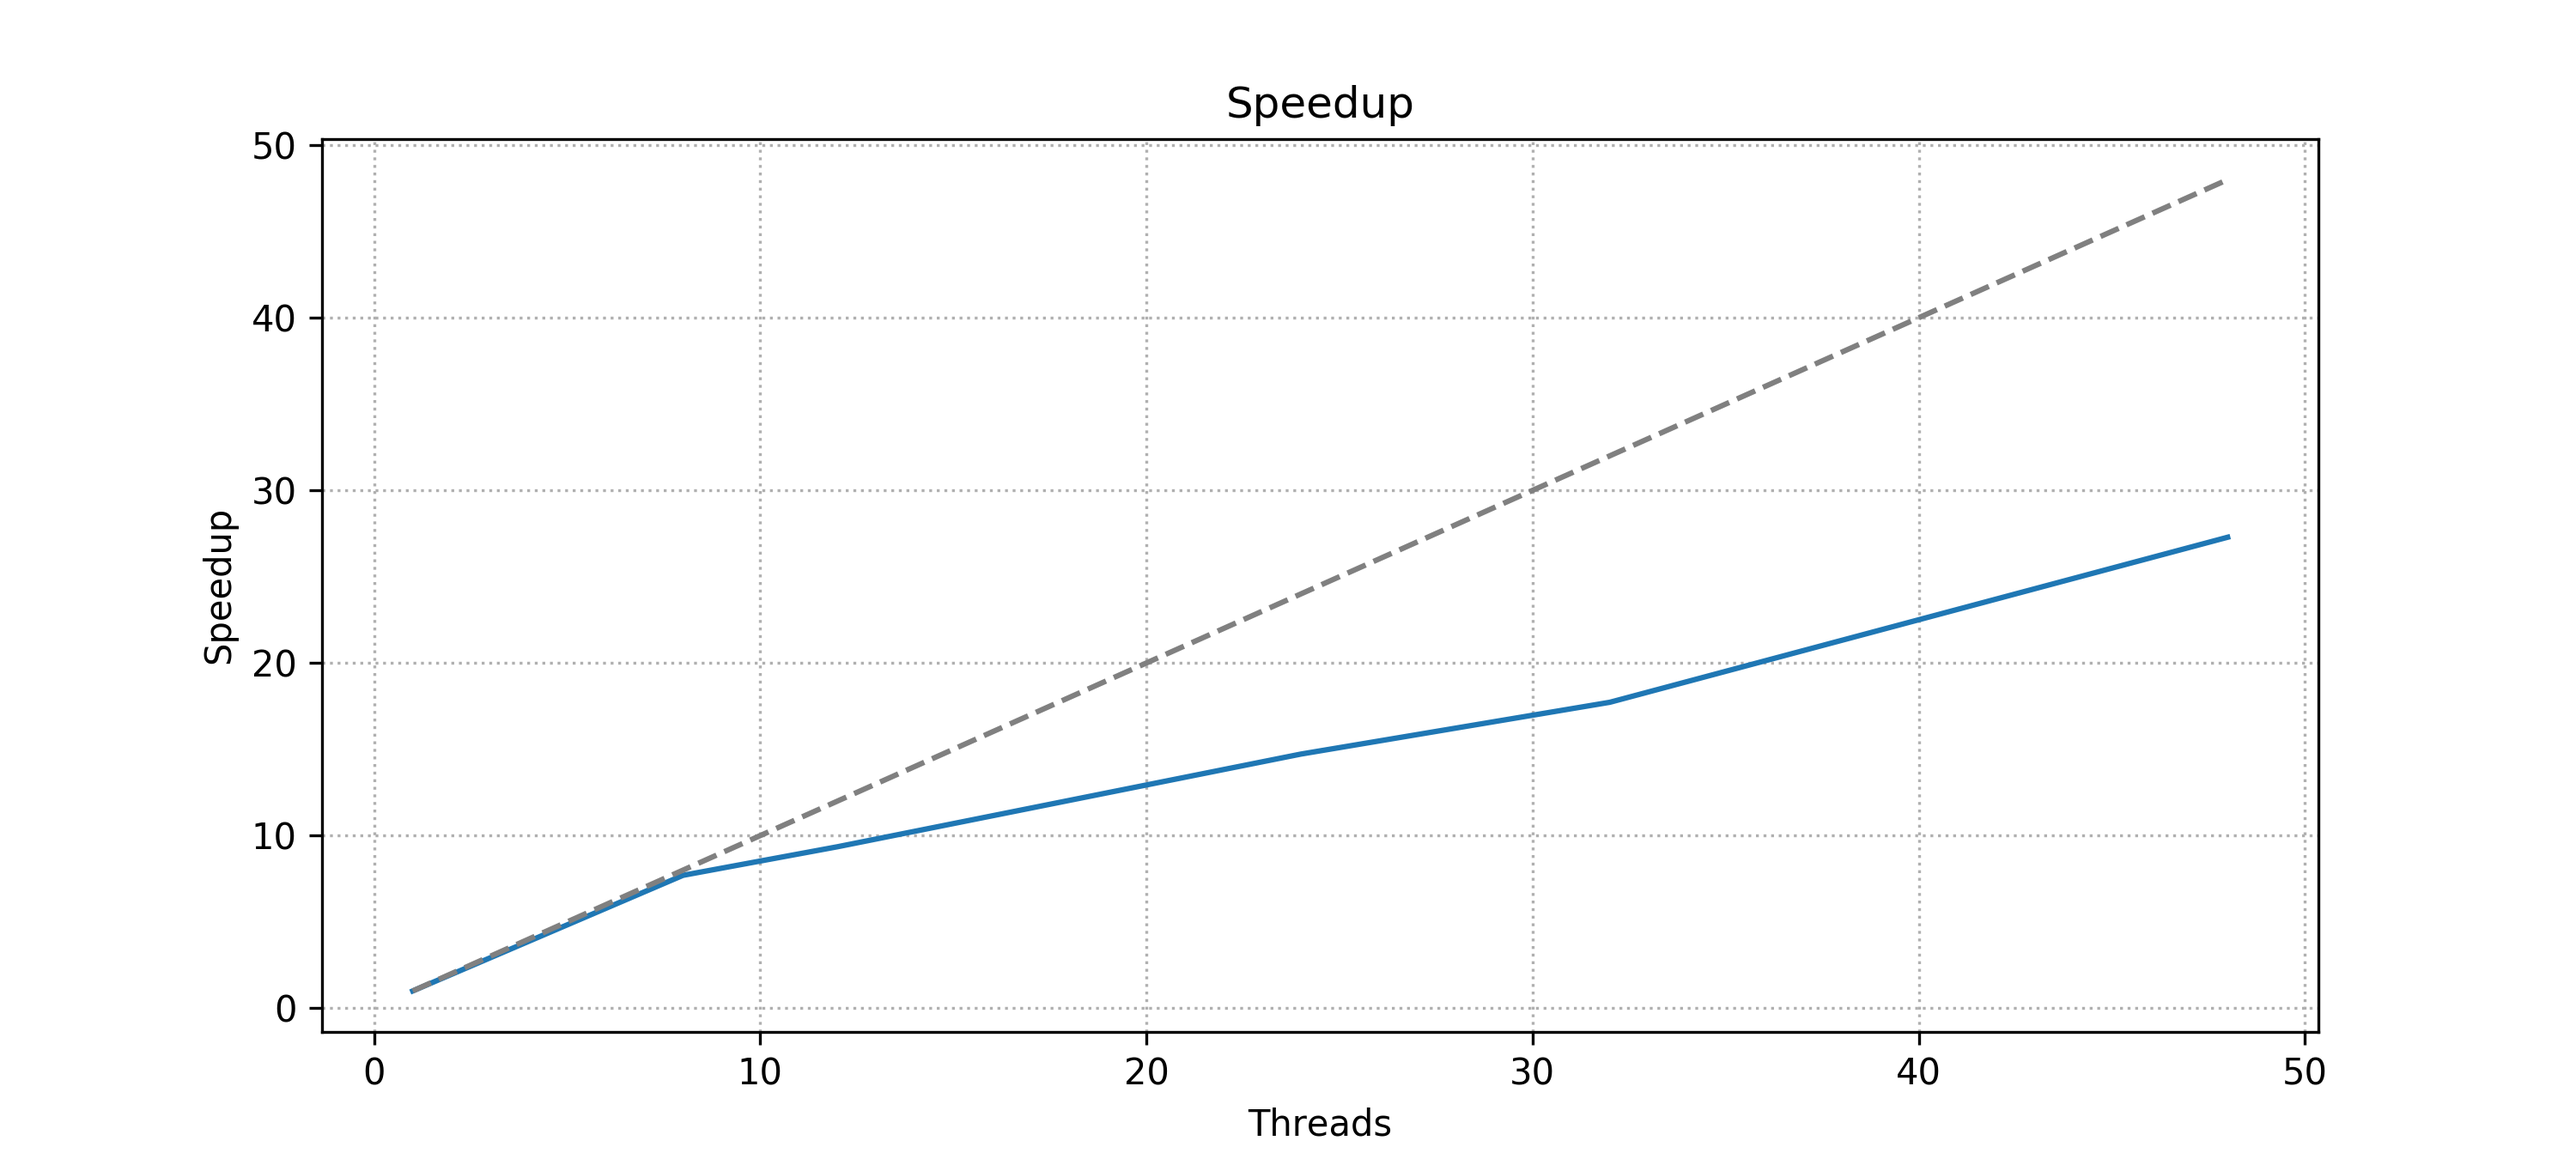
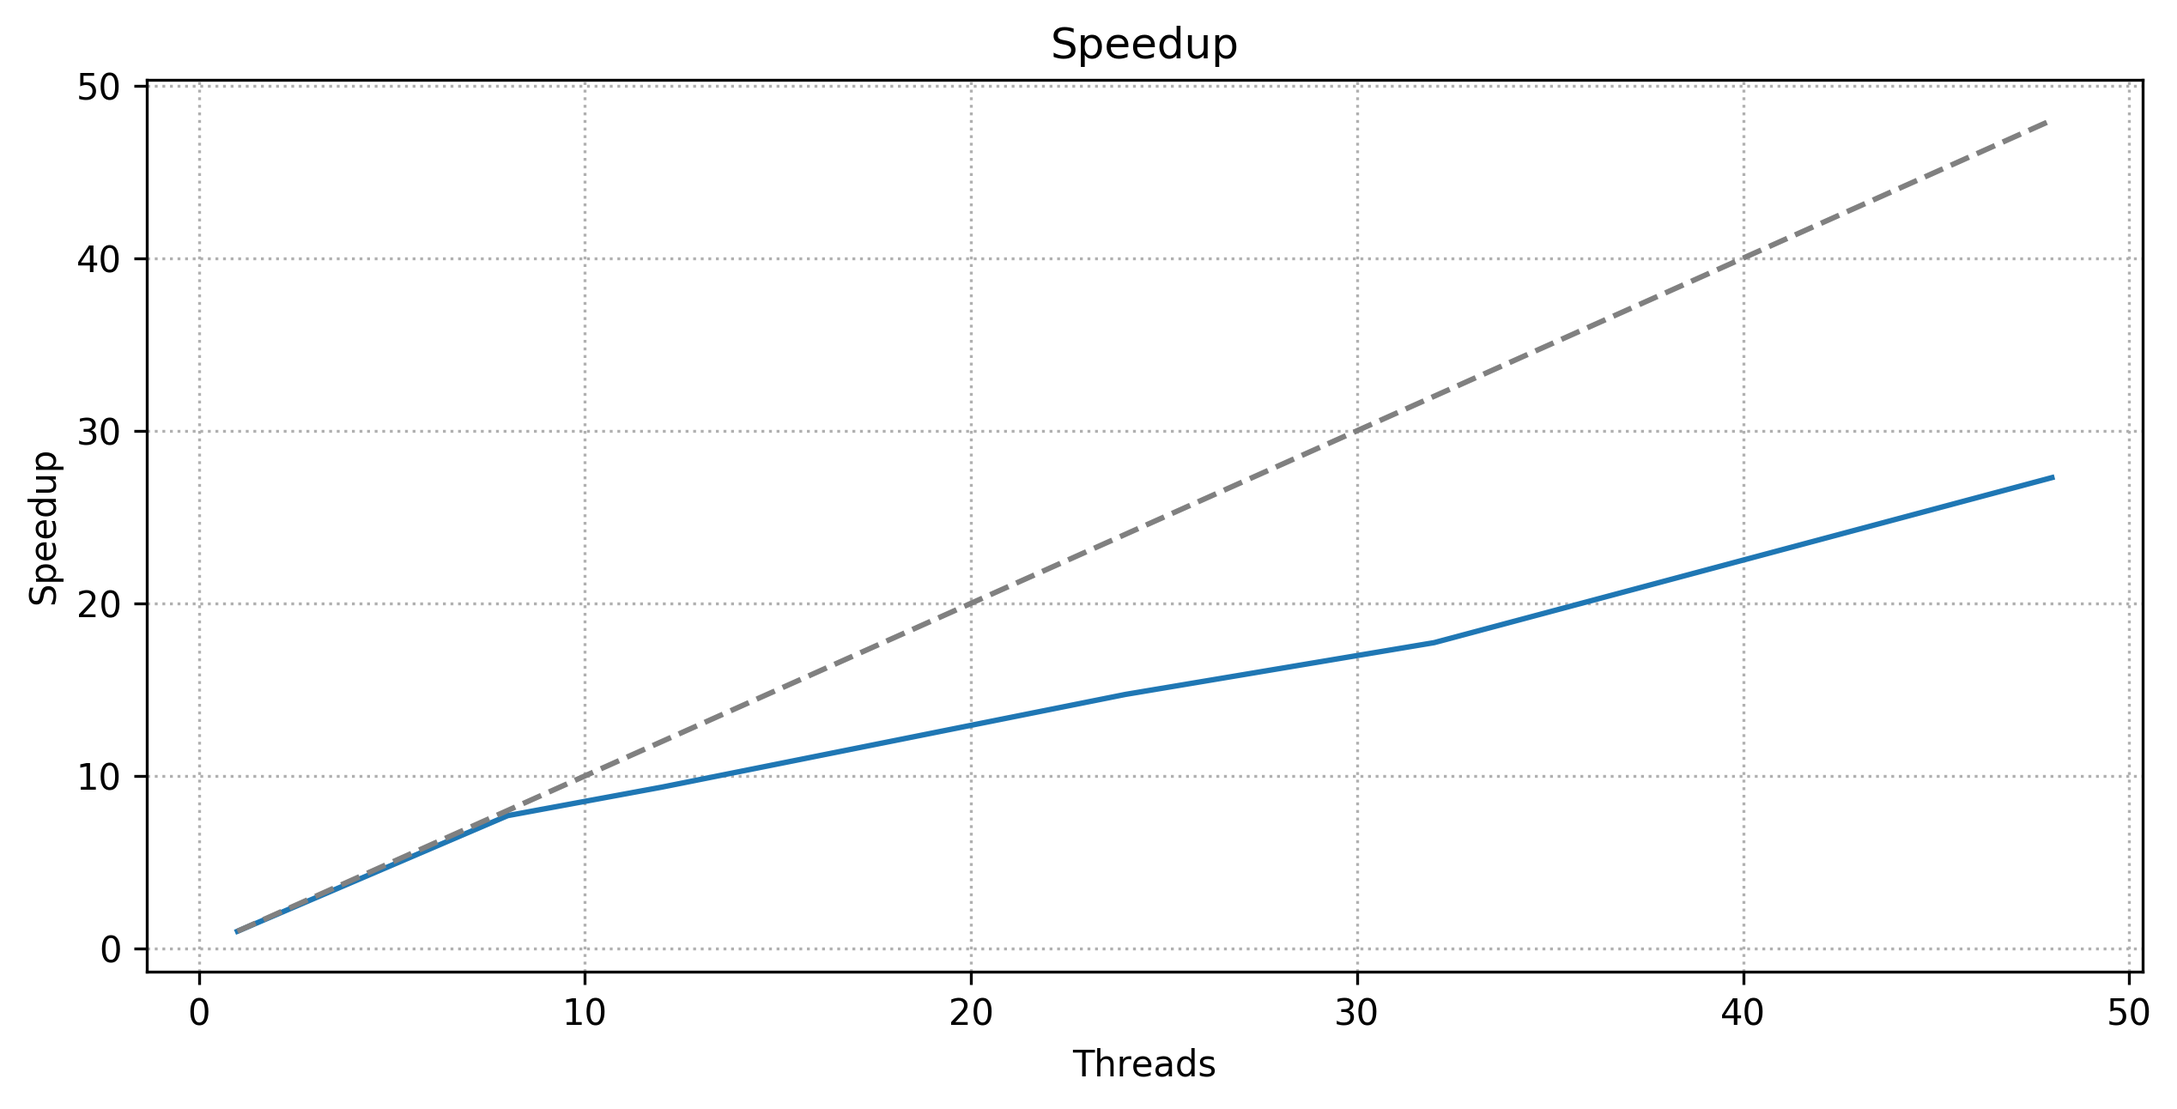
Remove border in scaling figure

diff --git a/omp_thread_performance.py b/omp_thread_performance.py
@@ -38,7 +38,7 @@ class core:
         axes.set_ylabel(label_y)
         axes.grid(linestyle=':')
 
-        pyplot.savefig(location, dpi=300)
+        pyplot.savefig(location, dpi=300, bbox_inches='tight')
 
 
     def make_graph(x, y, labels, title, label_x, label_y, location, legend='upper right', log=False,
